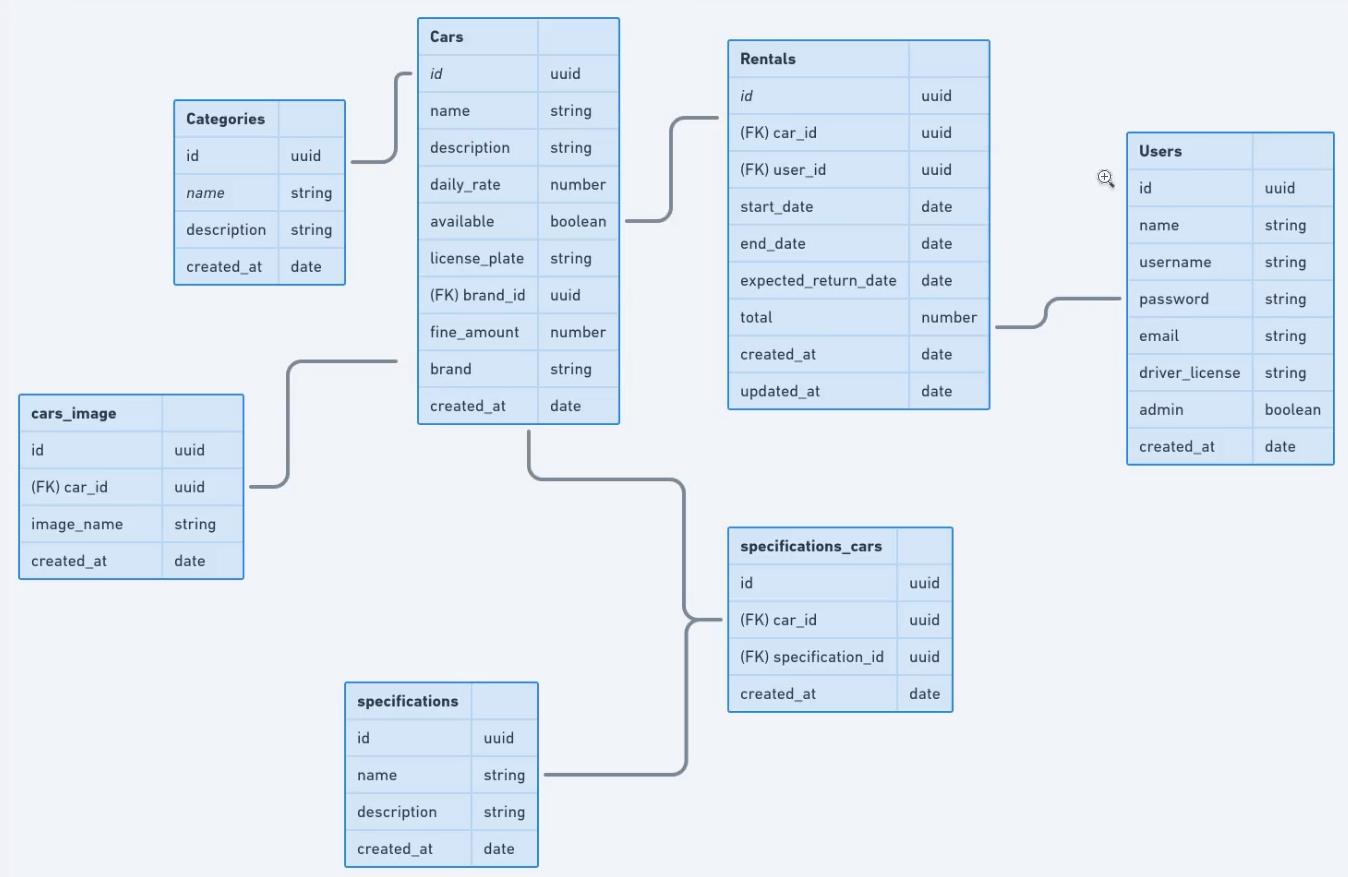
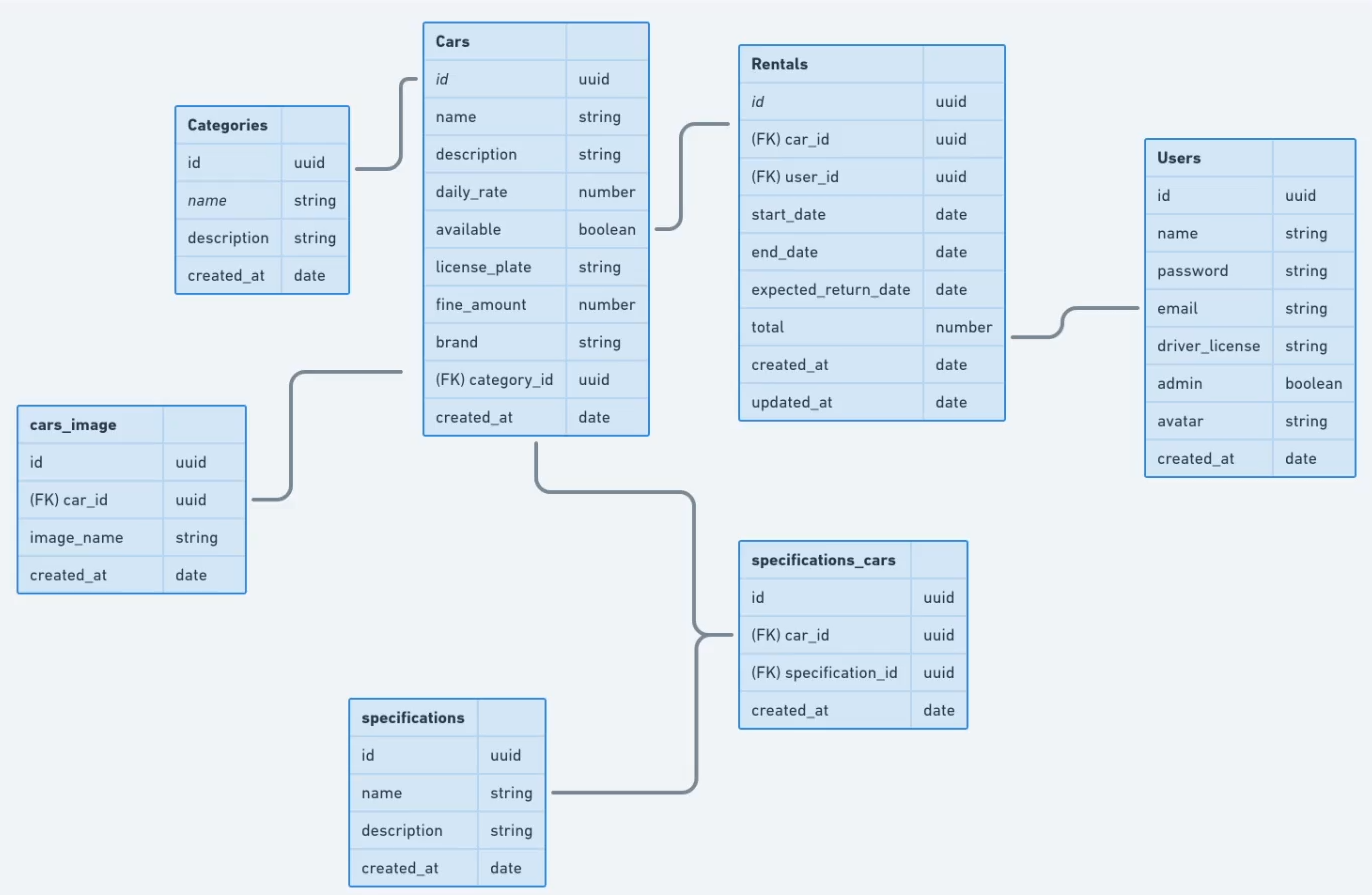
Criado migration cars

diff --git a/src/shared/infra/typeorm/migrations/1678299184520-CreateCars.ts b/src/shared/infra/typeorm/migrations/1678299184520-CreateCars.ts
@@ -1,0 +1,90 @@
+import { MigrationInterface, QueryRunner, Table } from "typeorm";
+
+export class CreateCars1678299184520 implements MigrationInterface {
+
+    public async up(queryRunner: QueryRunner): Promise<void> {
+        await queryRunner.createTable(
+            new Table({
+                name: "cars",
+                columns: [
+                    {
+                        name:  "id",
+                        type: "uuid",
+                        isPrimary: true
+                    },
+                    {
+                        name:  "name",
+                        type: "varchar"
+                    },
+                    {
+                        name:  "description",
+                        type: "varchar"
+                    },
+                    {
+                        name:  "daily_rate",
+                        type: "numeric"
+                    },
+                    {
+                        name:  "available",
+                        type: "boolean",
+                        default: true
+                    },
+                    {
+                        name:  "license_plate",
+                        type: "varchar"
+                    },
+                    {
+                        name:  "fine_amount",
+                        type: "numeric"
+                    },
+                    {
+                        name:  "brand",
+                        type: "varchar"
+                    },
+                    {
+                        name:  "category_id",
+                        type: "uuid",
+                        isNullable: true,
+                    },
+                    {
+                        name:  "created_at",
+                        type: "timestamp",
+                        default: "now()",
+                    }
+                ],
+                foreignKeys: [
+                    {
+                        name: "FKCategoryCar",
+                        referencedTableName: "categories",
+                        referencedColumnNames: ["id"],
+                        columnNames: ["category_id"],
+                        onDelete: "SET NULL",
+                        onUpdate: "SET NULL",
+                    }
+                ]
+            })
+        );
+    }
+
+    /**
+     * foreignKeys:
+     *  
+     * name: Nome da chave estrangeira (FKCategoryCar).
+     * referencedTableName: Nome da tabela referenciada ("categories").
+     * referencedColumnNames: Nome da(s) coluna(s) na tabela referenciada que faz(em) parte da chave primária (["id"]).
+     * columnNames: Nome da(s) coluna(s) na tabela atual que correspondem à(s) coluna(s) da tabela referenciada ([“category_id”]).
+     * 
+     * onDelete: Define a ação a ser tomada quando a linha correspondente na tabela referenciada for excluída. 
+     * Neste caso, o valor é "SET_NULL", o que significa que o valor desta chave estrangeira nesta tabela será definido
+     * como NULL quando a linha correspondente na tabela referenciada for excluída.
+     * 
+     * onUpdate: Define a ação a ser tomada quando uma ou mais colunas na linha correspondente na tabela referenciada 
+     * forem atualizadas. Neste caso, o valor também é "SET_NULL", o que significa que o valor desta chave estrangeira 
+     * nesta tabela será definido como NULL quando as colunas correspondentes na tabela referenciada forem atualizadas.
+     */
+
+    public async down(queryRunner: QueryRunner): Promise<void> {
+        await queryRunner.dropTable("cars");
+    }
+
+}
